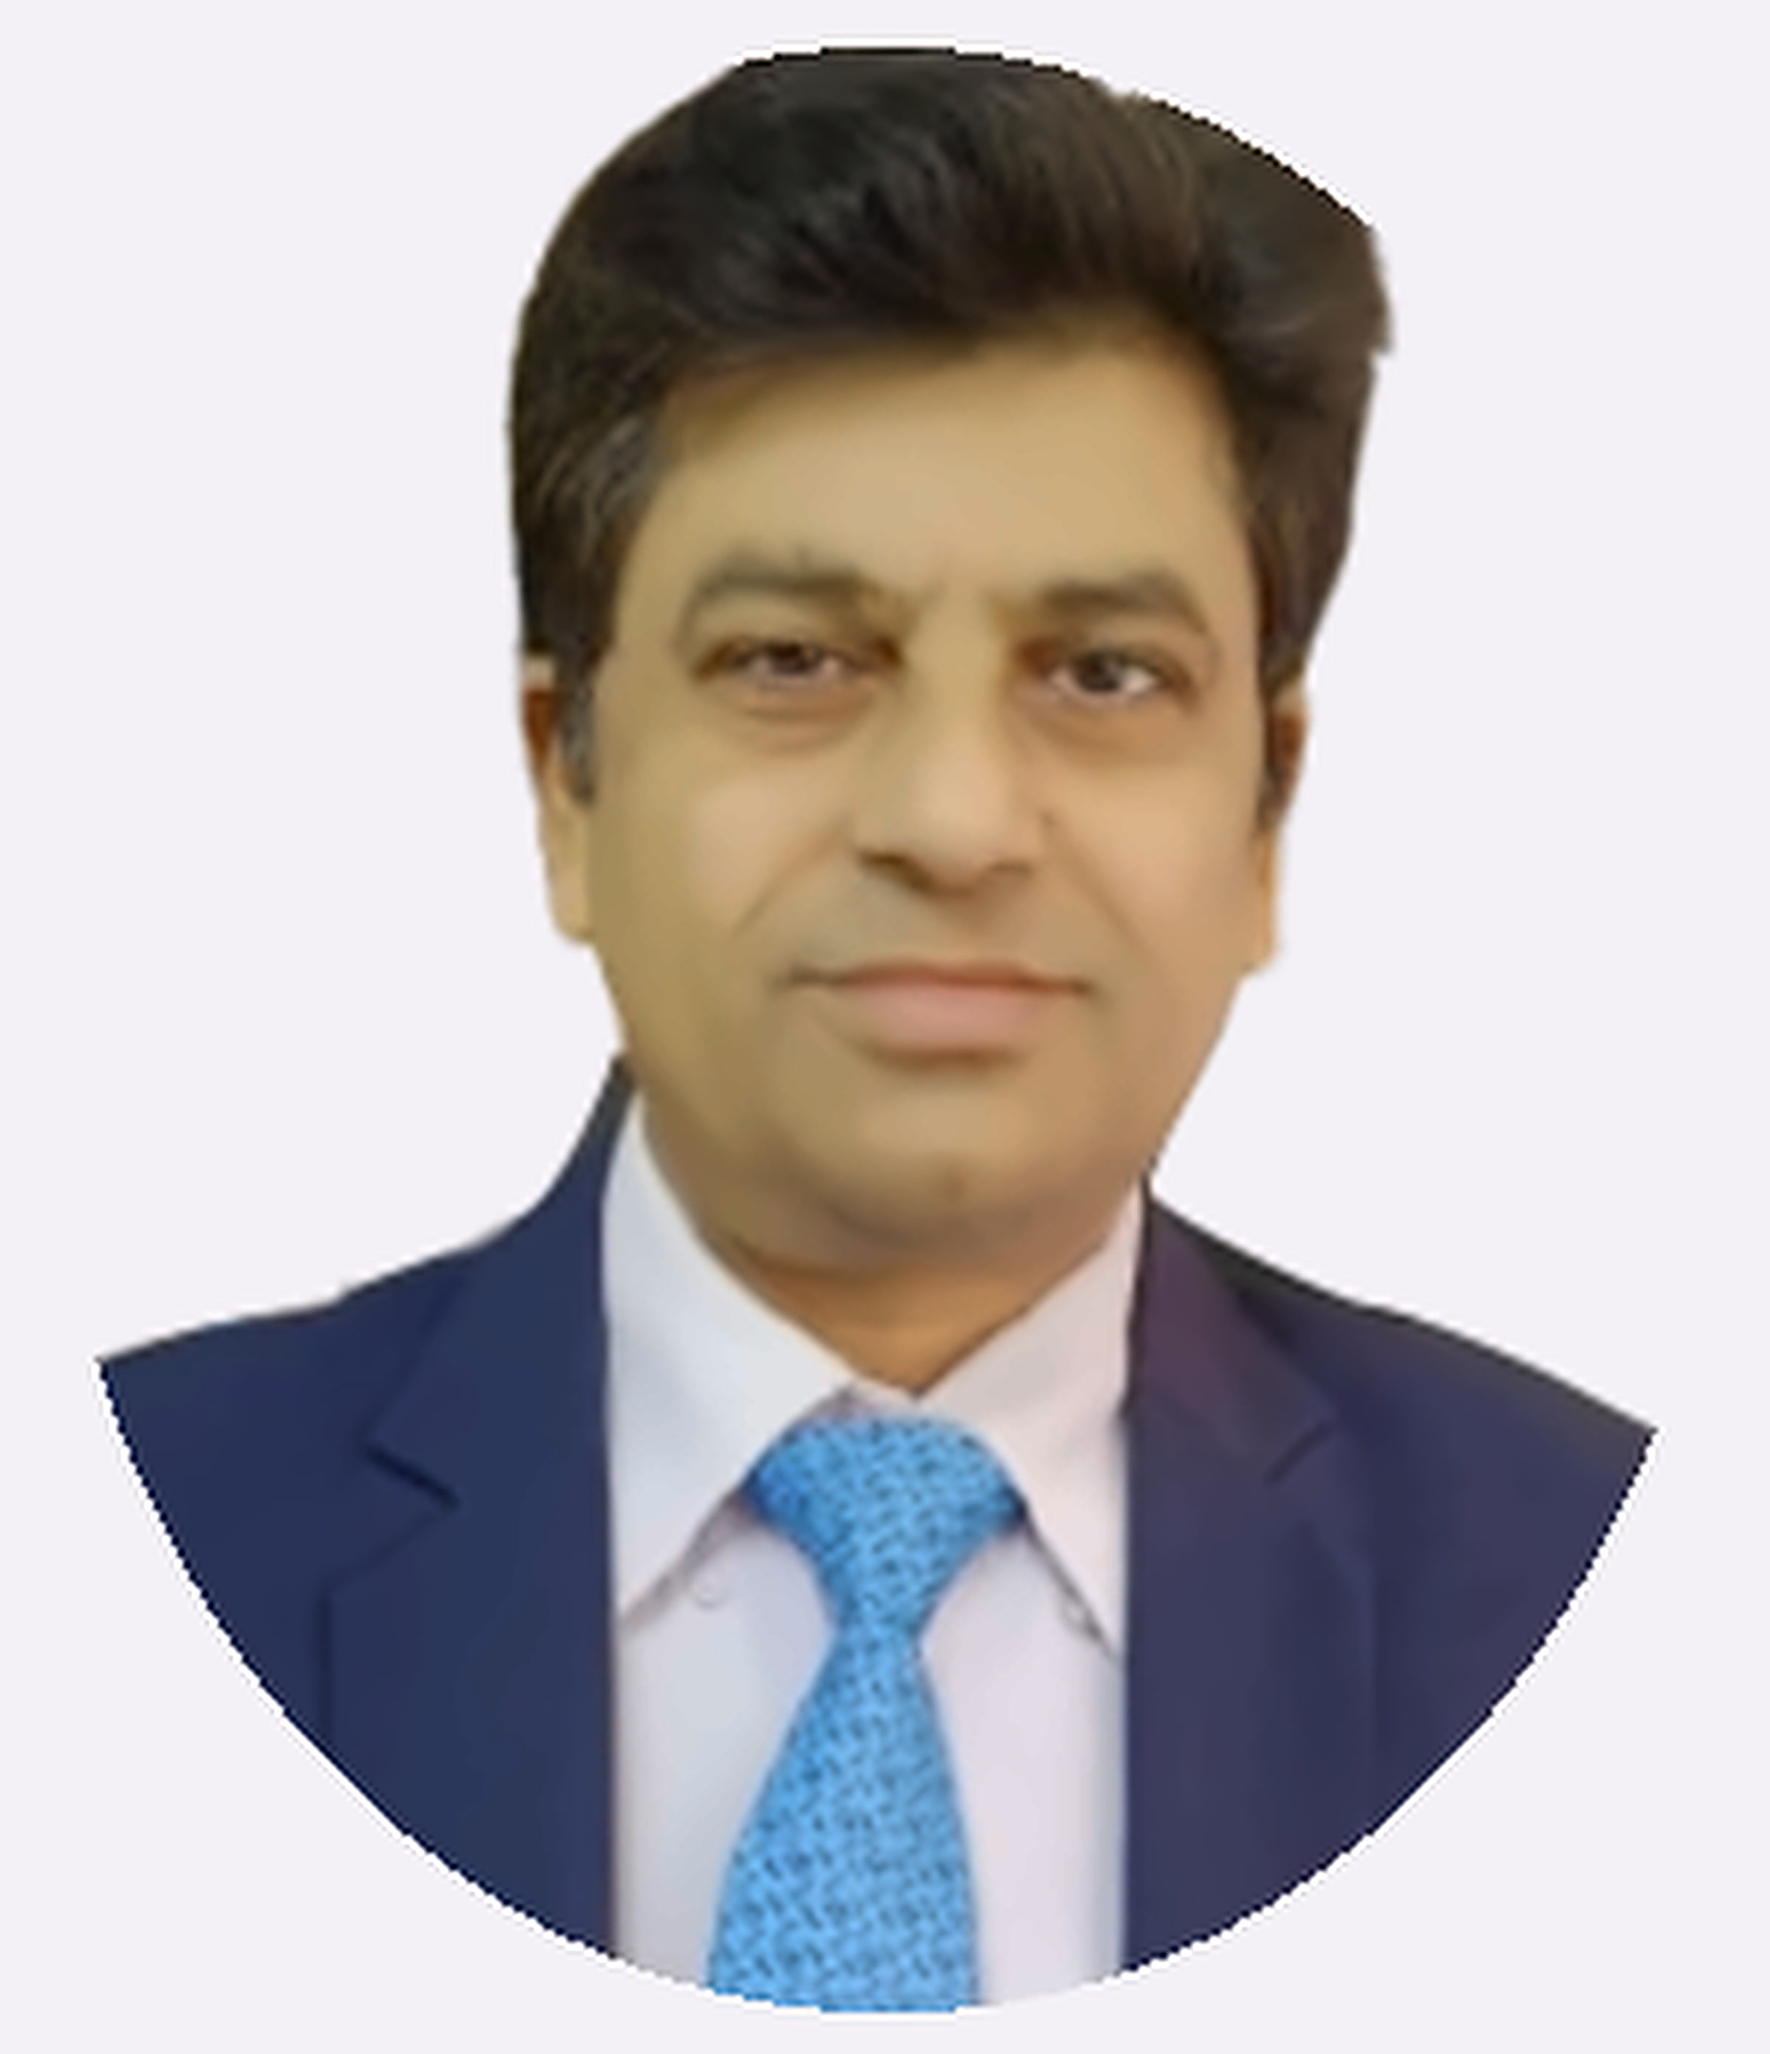
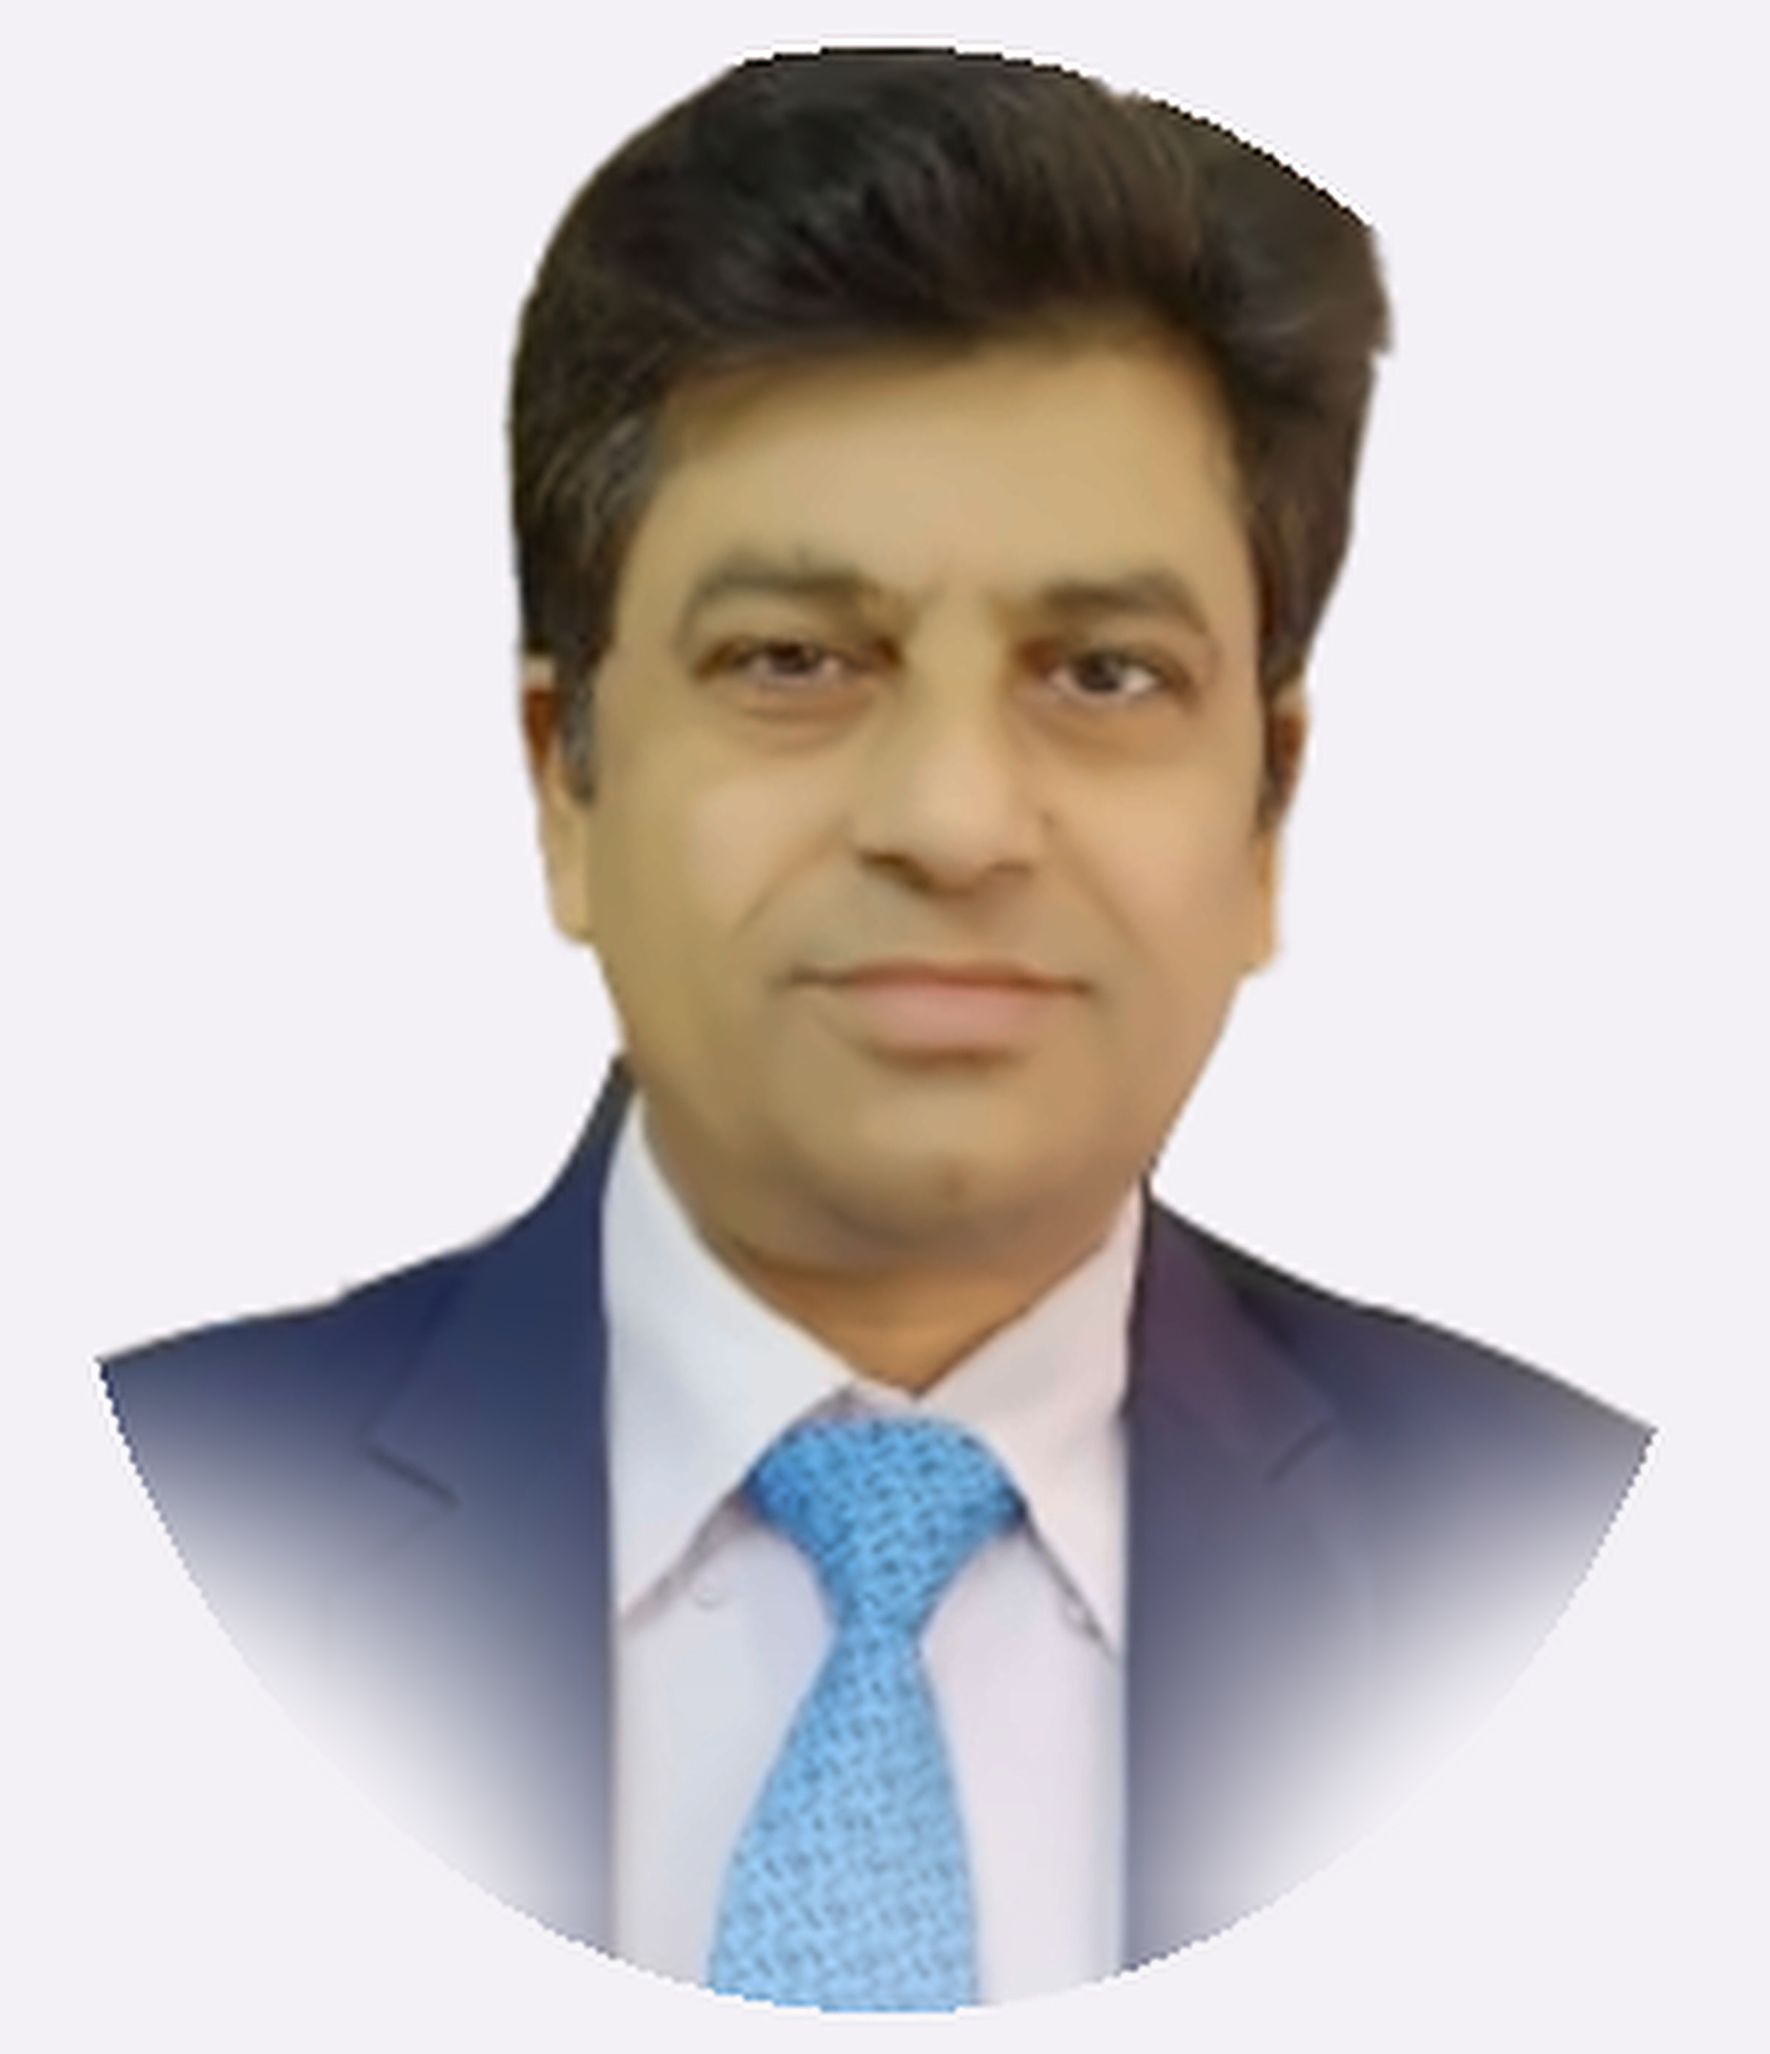
Portraits: Rajib re-framed head-and-shoulders; round-cut edges softened; smarter zoom
- Fakruddin Ali Ahmed Rajib: his photo had his head at the top edge and him
  off to the right, so cards cut his head. Plain white background extended
  above, framed head-and-shoulders at the same scale as the other directors;
  the face is unchanged. New face point.
- Bishnu Pada Kunda, M Shahryar Faiz: photos supplied cut to a circle; the
  lower corners fade into their plain background so the round edge no longer
  crosses the card.
- focusStyle zoom now moves the face towards the portrait line (centre, 42%)
  instead of pinning it where it is, and never past the photo's edges.
- Seed swaps these files in (previous versions listed) and applies the face
  point measured on the new file.

Claude-Session: https://claude.ai/code/session_0188rm5p1Yj2o8wBDkFssMy2

Changed region(s): [[0.0623, 0.6514, 0.5607, 0.9926], [0.623, 0.6514, 0.9345, 0.9616]]

diff --git a/prisma/seed-content.ts b/prisma/seed-content.ts
@@ -1895,7 +1895,7 @@ async function upgradePortraits() {
       where: {
         checksum: { not: checksum },
         OR: [
-          { checksum: previous },
+          { checksum: { in: ([] as string[]).concat(previous) } },
           { originalName: { in: [`${key}.png`, `${key}.jpg`, `${key}.jpeg`, `${key}.webp`] }, OR: [{ height: null }, { height: { lt: type.height ?? 2160 } }] },
         ],
       },
@@ -1909,14 +1909,24 @@ async function upgradePortraits() {
       await db.storedFile.upsert({ where: { key: storageKey }, update: {}, create: { key: storageKey, data, size: data.length } });
       await db.media.update({
         where: { id: row.id },
-        data: { storageKey, originalName: file, mimeType: type.mimeType, sizeBytes: data.length, width: type.width ?? null, height: type.height ?? null, checksum },
+        data: {
+          storageKey,
+          originalName: file,
+          mimeType: type.mimeType,
+          sizeBytes: data.length,
+          width: type.width ?? null,
+          height: type.height ?? null,
+          checksum,
+          // The face point measured on the new file (a re-framed photo moves it).
+          ...(PORTRAIT_FOCUS[key] && { focalX: PORTRAIT_FOCUS[key].x, focalY: PORTRAIT_FOCUS[key].y, focalZoom: PORTRAIT_FOCUS[key].zoom ?? null }),
+        },
       });
       swapped++;
     }
   }
   console.log(
     swapped
-      ? `• Portraits: ${swapped} photo(s) replaced with the 2160-pixel versions (same people, same framing)`
+      ? `• Portraits: ${swapped} photo(s) replaced with the latest 2160-pixel versions`
       : `• Portraits: ${current} already at 2160 pixels; nothing to replace`,
   );
 }

diff --git a/src/content/xfl2/portrait-previous.ts b/src/content/xfl2/portrait-previous.ts
@@ -4,13 +4,13 @@
  * face). The content seed swaps those earlier files for the new ones in place,
  * so every person, card and crop keeps working with no re-upload.
  */
-export const PREVIOUS_PORTRAITS: Record<string, string> = {
+export const PREVIOUS_PORTRAITS: Record<string, string | string[]> = {
[12 lines of base64/hex data omitted]

diff --git a/src/lib/media/focal.ts b/src/lib/media/focal.ts
@@ -45,8 +45,12 @@ export function focusStyle(
   const style: CSSProperties = { objectPosition: `${pct(px)} ${pct(py)}` };
   const z = opts.zoom === false ? 1 : clamp(f.zoom ?? 1, 1, 2);
   if (z > 1.001) {
+    // Zoom so the face moves towards where a portrait's face sits (centre,
+    // a little above the middle), never past the photo's own edges: the
+    // origin o with o + (face - o) × z = target, kept inside the frame.
+    const origin = (face: number, target: number) => clamp((face * z - target) / (z - 1));
     style.scale = String(z);
-    style.transformOrigin = `${pct(clamp(fx))} ${pct(clamp(fy))}`;
+    style.transformOrigin = `${pct(origin(clamp(fx), 0.5))} ${pct(origin(clamp(fy), 0.42))}`;
   }
   return style;
 }

diff --git a/src/content/xfl2/portrait-focus.ts b/src/content/xfl2/portrait-focus.ts
@@ -11,7 +11,7 @@ export const PORTRAIT_FOCUS: Record<string, { x: number; y: number; zoom?: numbe
   "bishnu-pada-kunda": { x: 0.537, y: 0.35 },
   "dilip-kajuri": { x: 0.484, y: 0.352, zoom: 1.08 },
   "eshan-barua": { x: 0.49, y: 0.37 },
-  "fakruddin-ali-ahmed-rajib": { x: 0.602, y: 0.29, zoom: 1.35 },
+  "fakruddin-ali-ahmed-rajib": { x: 0.53, y: 0.45 }, // re-framed 15 Oct to head and shoulders like the others (plain background extended above)
   "m-shahryar-faiz": { x: 0.524, y: 0.486 },
   "mahmuda-yasmin-farah": { x: 0.496, y: 0.424, zoom: 1.1 },
   "md-abdur-rahman-rony": { x: 0.491, y: 0.491 },
